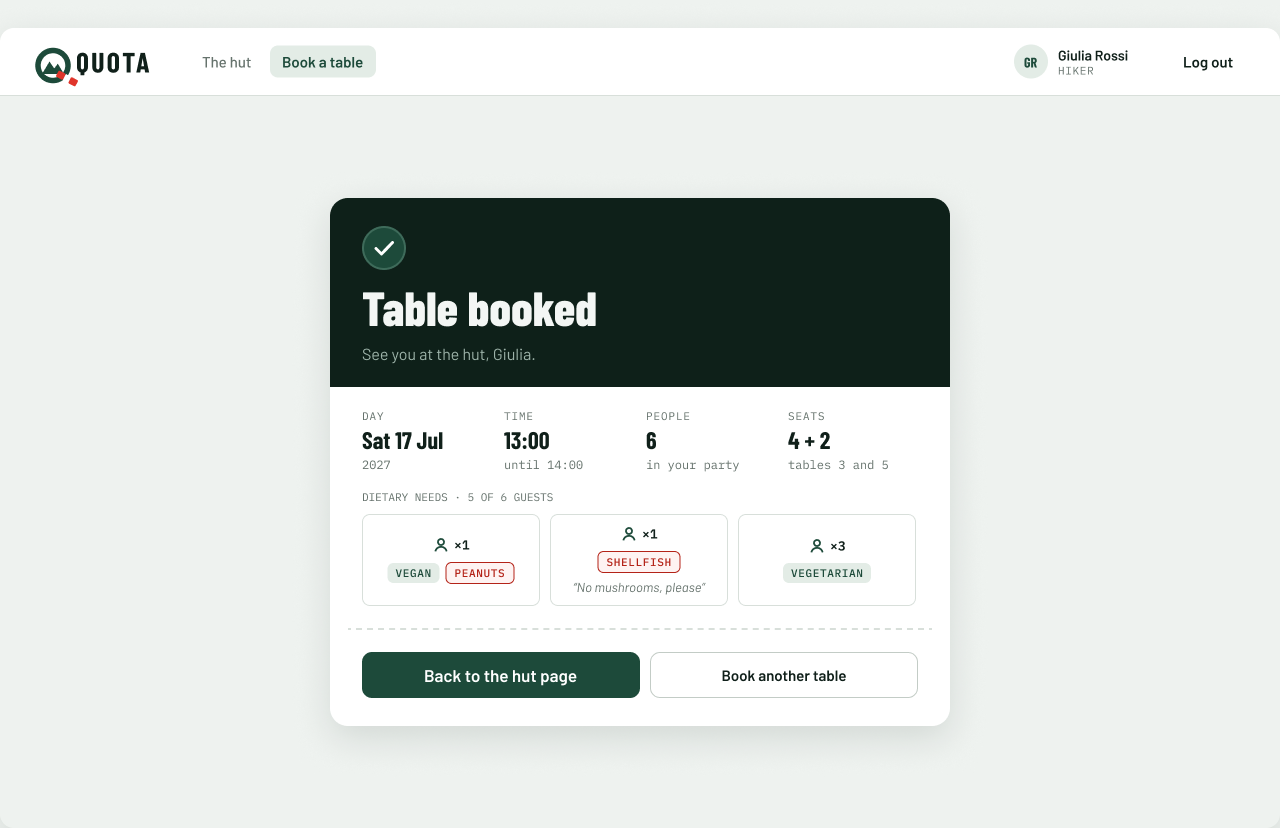
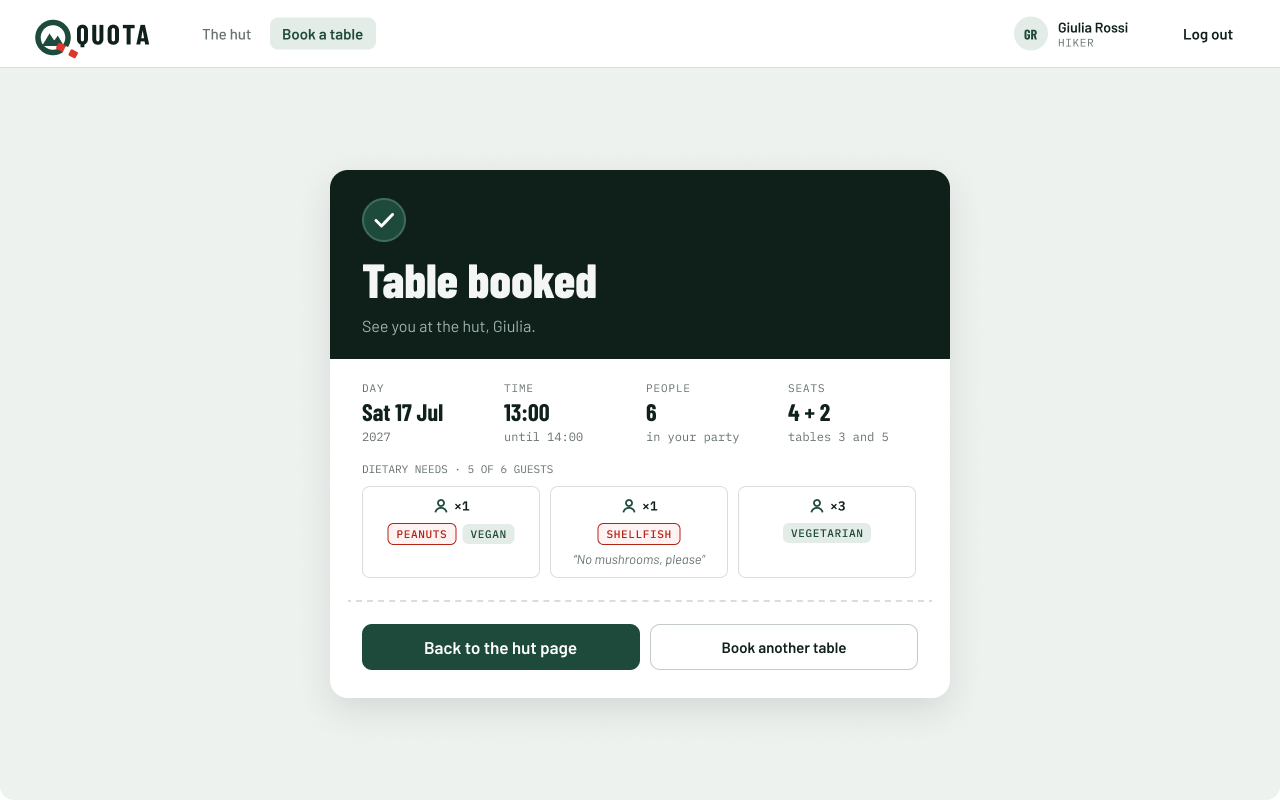
docs: address the review of the MH-05 mockup
- add Other to the Diet group, with its "Which diet?" field
- remove the high chair from the other requests example
- Table booked: cards start from the top, same height per row,
  allergies before the diet
- add screens 6 (big party with shared needs) and 7 (one guest with
  many needs), and restore screens 3 and 4 in Figma

diff --git a/docs/mockups/dietary/README.md b/docs/mockups/dietary/README.md
@@ -14,17 +14,17 @@ Mockup for story **MH-05 Dietary needs and allergies**, used by the booking fron
 | Story notes | An allergy is flagged, so that special care is taken in the preparation. |
 | PO answer | A booking has a **list of requirements**, each for part of the party, each with its own allergy flag. Example: yes "1 vegan, peanut allergy" · yes "1 shellfish allergy" · no "2 vegetarians". |
 | Team choice | **One line per guest**, so a party of N people has at most N lines. Each line holds the needs of one person. |
-| Team choice | **Preset options instead of free text.** The needs are chosen with cards (icon in the middle, name centred below). *Diet*: one at most. *Allergies*: any number. *Other* opens a text field for an allergy that is not in the list. |
+| Team choice | **Preset options instead of free text.** The needs are chosen with cards (icon in the middle, name centred below). *Diet*: one at most. *Allergies*: any number. In both groups *Other* opens a text field, for a diet or an allergy that is not in the list (e.g. halal, sesame). |
 | Team choice | The **allergy flag is set by the system**: a line is an allergy when at least one *Allergy* card is chosen. Allergy cards and chips are red, diets are green. |
-| Team choice | **Other requests**: each line also has an optional free text for anything that is not a diet or an allergy (e.g. no spicy food, a small portion, a high chair). |
-| Team choice | In the confirmation, **guests with the same needs are grouped** in one card with **×N** (how many guests). Guests are not numbered there. |
+| Team choice | **Other requests**: each line also has an optional free text for anything else the kitchen should know, that is not a diet or an allergy (e.g. no spicy food, a small portion). |
+| Team choice | In the confirmation, **guests with the same needs are grouped** in one card with **×N** (how many guests). Guests are not numbered there. The summary grows with the number of different combinations, not with the people (screen 6). |
 | Team choice | The needs are asked at the end of the booking, in *Check your booking*, just before *Confirm booking*. They are optional: a party with no needs confirms as before. |
 
 ## The options
 
 | Group | Choice | Options |
 |---|---|---|
-| Diet | one at most | Vegetarian · Vegan · Pescatarian · Lactose-free |
+| Diet | one at most | Vegetarian · Vegan · Pescatarian · Lactose-free · Other (with a text field) |
 | Allergies | any number | Gluten · Milk · Eggs · Peanuts · Tree nuts · Fish · Shellfish · Other (with a text field) |
 
 The PO example becomes: Guest 1 *Vegan* + *Peanuts*, Guest 2 *Shellfish*, Guest 3 *Vegetarian*.
@@ -38,8 +38,10 @@ The first three steps of [Book a table](../booking/README.md#the-flow) (day, peo
 3. **+ Add a guest's needs** opens the editor of a new guest (*Guest 1*, *Guest 2*…): the *Diet* cards, the *Allergies* cards and the *Other requests* field. Tapping a card selects it (border, tinted background, check mark); tapping it again unselects it. Choosing another diet replaces the first one.
 4. When another guest is added, the guest being edited folds into a row: its name, a chip per choice (green diet, red allergy), **Edit** to open it again and **×** to remove it. Only one guest is open at a time.
 5. When every person of the party has a line, **+ Add a guest's needs** is disabled and the counter says "every guest has a line". Removing a line frees it again. If the hiker goes **Back** and makes the party smaller than the number of lines, the extra lines must be removed before confirming.
-6. **Confirm booking** sends the booking and its lines in the same request (`POST /api/bookings`). The dialog stays open, with the problem marked, when a guest has no card chosen and no request, or *Other* is chosen with an empty field. **Back** keeps every choice, the lines too.
+6. **Confirm booking** sends the booking and its lines in the same request (`POST /api/bookings`). The dialog stays open, with the problem marked, when a guest has no card chosen and no request, or *Other* (diet or allergy) is chosen with an empty field. **Back** keeps every choice, the lines too.
 7. **Table booked** lists the needs as saved, in a grid of cards (3 per row, 2 on a phone). Guests with exactly the same needs (diet, allergies and request) share one card: a people icon with **×N**, the chips, and the request in quotes under them. With no needs the card is the same as in MH-01.
+
+   Every card starts from the top, so the ×N of the cards of a row are on one line and the chips on the next one, also when one card has a request and the others do not. The cards of a row have the same height. The chips show the **allergies first** (red), then the diet (green), and wrap when they do not fit. The request goes under them, on as many lines as needed. A single card of a party takes the whole width (screen 7).
 
 ## Screens
 
@@ -50,8 +52,10 @@ The first three steps of [Book a table](../booking/README.md#the-flow) (day, peo
 | 3 | *Other* allergy without a name | ![Other allergy without a name](03-other-allergy-without-name.png) |
 | 4 | Party of 2: every guest has a line | ![Every guest has a line](04-every-guest-has-a-line.png) |
 | 5 | Table booked with dietary needs, grouped with ×N | ![Table booked with needs](05-table-booked-with-needs.png) |
+| 6 | Big party with shared needs: 22 people, 20 with needs, in 4 cards | ![Big party with shared needs](06-big-party-shared-needs.png) |
+| 7 | One guest with many needs: five allergies, a diet and a long request | ![One guest with many needs](07-one-guest-many-needs.png) |
 
-Screens 2 and 3 are taller than 800 px to show the dialog in full. On a smaller window the dialog scrolls.
+Screens 2 and 3 are taller than 800 px to show the dialog in full (with *Other* in the Diet group the cards take two lines). On a smaller window the dialog scrolls.
 
 ### On a phone
 
@@ -69,7 +73,7 @@ The same website in a phone browser, as in MH-01. The dialog becomes a sheet fro
 | *Icon / Food / …* | one per option | 24 px line icons: Vegetarian, Vegan, Pescatarian, Lactose-free, Gluten, Milk, Eggs, Peanuts, Tree nuts, Fish, Shellfish, Other. |
 | *Need card* | Kind = Diet / Allergy × State = Default / Selected | One option: icon in the middle, name centred below. Properties *Name* (text) and *Icon* (swap). Selected diet is green, selected allergy is red. |
 | *Need chip* | Kind = Diet / Allergy | Read-only chip of a chosen option, in the guest rows and in the confirmation. Property *Name*. |
-| *Guest needs editor* | Size = Desktop / Phone | The open editor of one guest: name, ×, the Diet cards, the Allergies cards, the *Other* field and the *Other requests* field. Properties *Guest* (text) and *Show other field* (boolean). |
+| *Guest needs editor* | Size = Desktop / Phone | The open editor of one guest: name, ×, the Diet cards, the Allergies cards, the *Other* field and the *Other requests* field. Properties *Guest* (text), *Show other field* (boolean, the *Other* allergy field) and *Show other diet field* (boolean, the *Other* diet field). |
 
 ## Texts and server answers
 
@@ -79,11 +83,12 @@ The same website in a phone browser, as in MH-01. The dialog becomes a sheet fro
 | Help under the title | Add the needs of each guest who has any: at most one line per person in your party. Choosing an allergy tells the kitchen to take special care. |
 | No lines | No dietary needs or allergies for this booking. · **+ Add a guest's needs** · 0 of *N* guests |
 | Group labels | DIET · choose one / ALLERGIES · choose all that apply / OTHER REQUESTS · optional · not a diet or an allergy |
-| Other requests field | "Anything else the kitchen should know?", placeholder "e.g. no spicy food, small portion, a high chair" |
+| Other requests field | "Anything else the kitchen should know?", placeholder "e.g. no spicy food, a small portion" |
 | Counter | *K* of *N* guests |
 | Every guest has a line | Button disabled, "*N* of *N* guests · every guest has a line" |
-| *Other* chosen | Field "Which allergy?", placeholder "e.g. sesame, celery, mustard" |
-| *Other* left empty, on Confirm | Under the field, in red: "Write which allergy, or unselect Other." Nothing is sent. |
+| *Other* allergy chosen | Field "Which allergy?", placeholder "e.g. sesame, celery, mustard" |
+| *Other* diet chosen | Field "Which diet?", placeholder "e.g. halal, kosher" |
+| *Other* left empty, on Confirm | Under the field, in red: "Write which allergy, or unselect Other." (or "Write which diet, or unselect Other.") Nothing is sent. |
 | A guest with no card and no request, on Confirm | The guest is marked the same way. Nothing is sent. |
 | Server saved the booking (`201`) | Table booked, with *Dietary needs · K of N guests* and one card per group of guests with the same needs: ×*count*, the chips, the request in quotes. |
 | Invalid request (`400`, e.g. more lines than people) | Checked in the browser first, so it should not happen. If it does, the general message "Something went wrong on our side. Try again in a minute." |
@@ -94,7 +99,7 @@ The same website in a phone browser, as in MH-01. The dialog becomes a sheet fro
 What the screens need from the API. The field names are for the backend task to decide:
 
 - a booking has a list of guest lines, possibly empty, with **at most as many lines as people** in the party;
-- each line has **at most one diet** from the fixed list, **any number of allergies** from the fixed list, an **other allergy** text (required only when *Other* is chosen) and an optional **other requests** text;
+- each line has **at most one diet** from the fixed list or an **other diet** text (required only when the diet *Other* is chosen), **any number of allergies** from the fixed list, an **other allergy** text (required only when the allergy *Other* is chosen) and an optional **other requests** text;
 - a line has at least one choice or a request;
 - the **allergy flag** of a line is true when it has at least one allergy. It is derived, so the client does not send it;
 - the order of the lines is the order in which the hiker added them;
@@ -108,7 +113,7 @@ These belong to other stories and are added with them: how the hut staff read th
 
 Not asked to the product owner yet. The mockup does not depend on the answers, only the lists would change:
 
-- Which diets and allergies are in the preset lists. Today: 4 diets and 7 allergies plus *Other*.
+- Which diets and allergies are in the preset lists. Today: 4 diets and 7 allergies, each group with *Other*.
 - The maximum length of the *Other requests* text.
 
 Sample data (hut, names, dates, tables, needs) is invented for the mockup.
